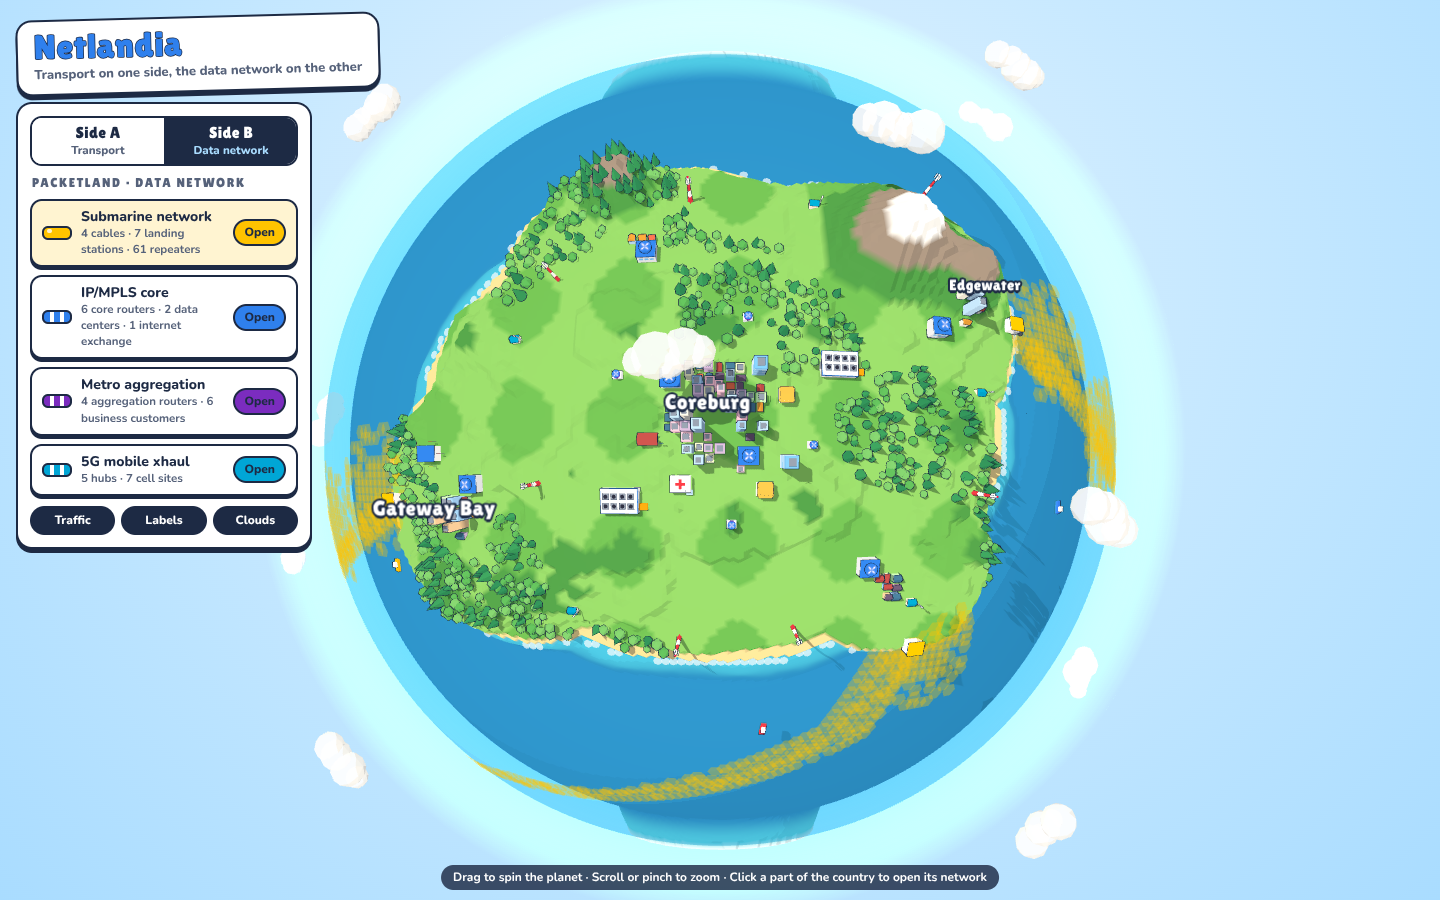
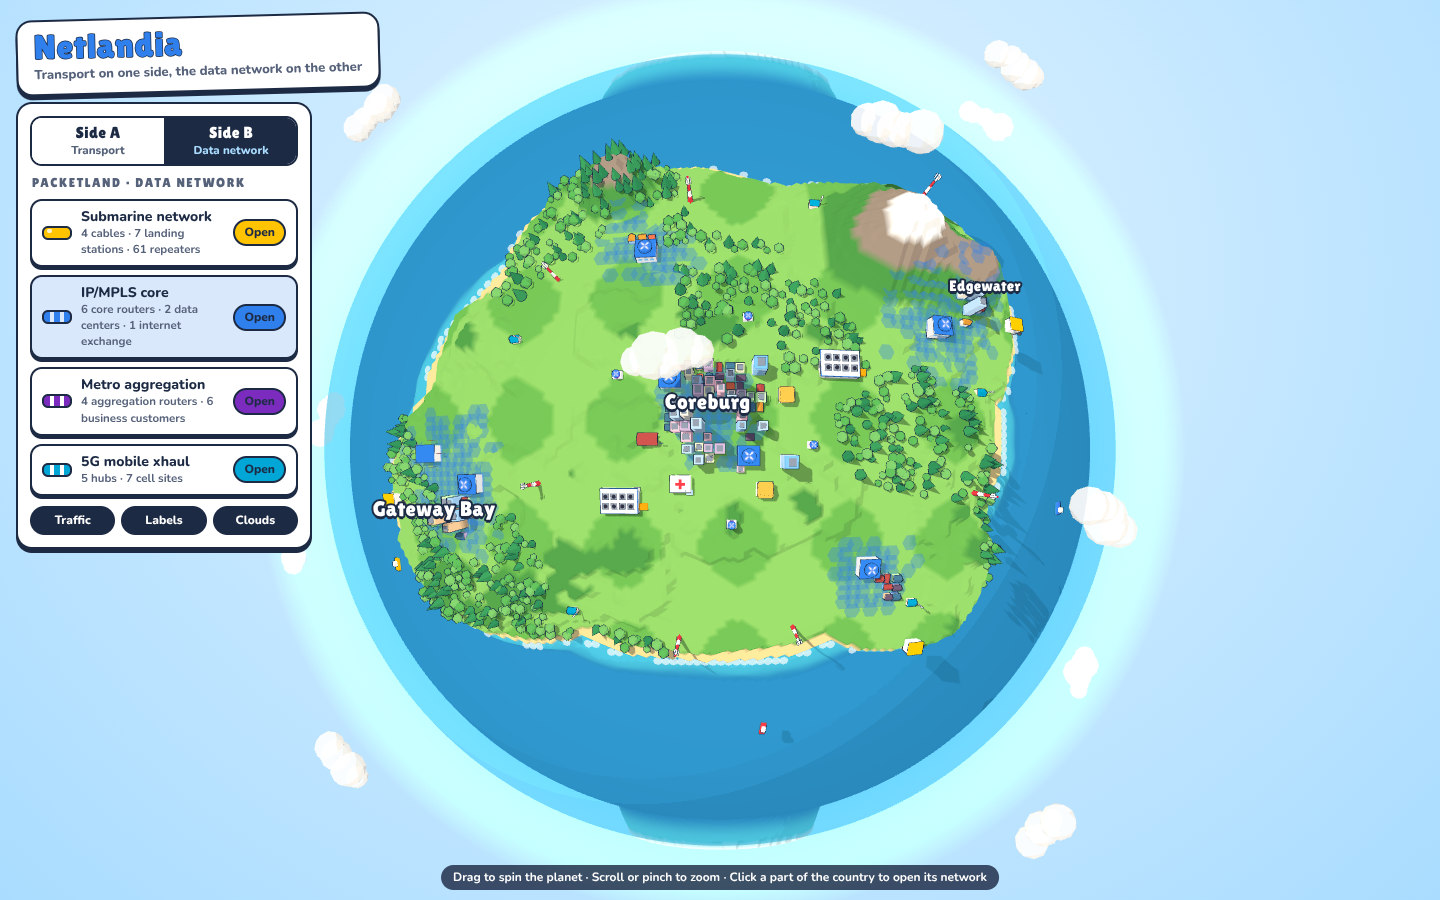
Put the core at the centre of Coreburg and the metro ring round it
On the data side the Coreburg core pair sat inside the metro aggregation
region, so downtown read as metro and only the corner towns as core. The
core region now covers the centre of Coreburg as well as the four corners,
and the metro region is the ring of city round that centre. regionAt picks
the smallest circle a point is inside, so a network nested in another's
area wins there; at sea the cable band has the last word.

Claude-Session: https://claude.ai/code/session_013BtSYB8qUigmKVpjzeR7pr

diff --git a/js/world.js b/js/world.js
@@ -624,7 +624,7 @@ export const MAJORS = [
     // three landing coasts of Packetland ([x, z, r, side]; side defaults to A)
     both: true,
     region: [[58, 22, 22], [92, 6, 22], [96, 30, 16], [112, 46, 18], [-122, 16, 18], [70, 70, 20], [-140, 30, 20],
-      [-80, 14, 16, 1], [46, 50, 14, 1], [80, -22, 16, 1], [110, 0, 18, 1], [-110, 24, 18, 1]],
+      [-80, 14, 16, 1], [46, 50, 11, 1], [80, -22, 16, 1], [110, 0, 18, 1], [-110, 24, 18, 1]],
     owns: (l) => l.layer === 'submarine',
   },
   {
@@ -645,15 +645,17 @@ export const MAJORS = [
   {
     id: 'ipcore', side: 1, name: 'IP/MPLS core', color: LAYER.ipcore.color, layers: ['ipcore'],
     blurb: 'Six core routers in a mesh, every one with three or more neighbours: a redundant pair in Coreburg and one in each corner of Packetland, peering at the Gateway Bay internet exchange and serving the cloud and 5G core data centers.',
-    place: 'Gateway Bay, Northport, Edgewater and Framefield',
-    region: [[-52, 12, 16], [-12, -34, 11], [46, -20, 14], [32, 30, 10]],
+    place: 'The Coreburg core pair and the four corner towns',
+    // the core sits at the centre of Coreburg (a small circle that beats the metro's)
+    // and at each corner of the country
+    region: [[0, 0, 10.5], [-52, 12, 16], [-12, -34, 11], [46, -20, 14], [32, 30, 10]],
     owns: (l) => l.layer === 'ipcore',
   },
   {
     id: 'aggregation', side: 1, name: 'Metro aggregation', color: LAYER.agg.color, layers: ['agg', 'access'],
     area: { ...COREBURG, r: 20 },
     blurb: 'A segment-routed aggregation ring round Coreburg, homed on both core routers, with business Ethernet rings looping past banks, offices, a hospital and a school between its routers.',
-    place: 'Downtown Coreburg',
+    place: 'The ring of downtown Coreburg round the core',
     region: [[0, 2, 24]],
     owns: (l) => l.layer === 'agg' || l.layer === 'access',
   },
@@ -673,22 +675,23 @@ export const BAND = 7;
 let seaBand = [];
 const bandCos = Math.cos(BAND / PLANET_R);
 
-// Which major's region a spot on a side's map falls in, if any: the one whose circle
-// it is deepest inside, so overlapping edges go to the closer centre; failing that,
-// the cable band.
+// Which major's region a spot on a side's map falls in, if any: the smallest circle
+// it is inside (so a network nested in another's area, like the core pair in the
+// middle of Coreburg's metro ring, wins there); failing that, the cable band.
 export function regionAt(x, z, side) {
-  let best = null, bestD = 1;
+  let best = null, bestR = Infinity;
   for (const m of MAJORS) {
     for (const [cx, cz, r, cs = m.side] of m.region) {
-      if (cs !== side) continue;
-      const d = Math.hypot(x - cx, z - cz) / r;
-      if (d < bestD) { bestD = d; best = m.id; }
+      if (cs !== side || r >= bestR) continue;
+      if (Math.hypot(x - cx, z - cz) < r) { bestR = r; best = m.id; }
     }
   }
-  if (best) return best;
-  const d = flatToDir(x, z, side);
-  for (const p of seaBand) if (dot(d, p) > bandCos) return 'submarine';
-  return null;
+  // at sea, the cable band wins over any circle that happens to reach the water
+  if (!best || heightAt(x, z, side) < -0.5) {
+    const d = flatToDir(x, z, side);
+    for (const p of seaBand) if (dot(d, p) > bandCos) return 'submarine';
+  }
+  return best;
 }
 
 // For each major: the link ids it owns and every node id that belongs in its own view.

diff --git a/dist/netlandia.html b/dist/netlandia.html
@@ -988,7 +988,7 @@ const MAJORS = [
     // three landing coasts of Packetland ([x, z, r, side]; side defaults to A)
     both: true,
     region: [[58, 22, 22], [92, 6, 22], [96, 30, 16], [112, 46, 18], [-122, 16, 18], [70, 70, 20], [-140, 30, 20],
-      [-80, 14, 16, 1], [46, 50, 14, 1], [80, -22, 16, 1], [110, 0, 18, 1], [-110, 24, 18, 1]],
+      [-80, 14, 16, 1], [46, 50, 11, 1], [80, -22, 16, 1], [110, 0, 18, 1], [-110, 24, 18, 1]],
     owns: (l) => l.layer === 'submarine',
   },
   {
